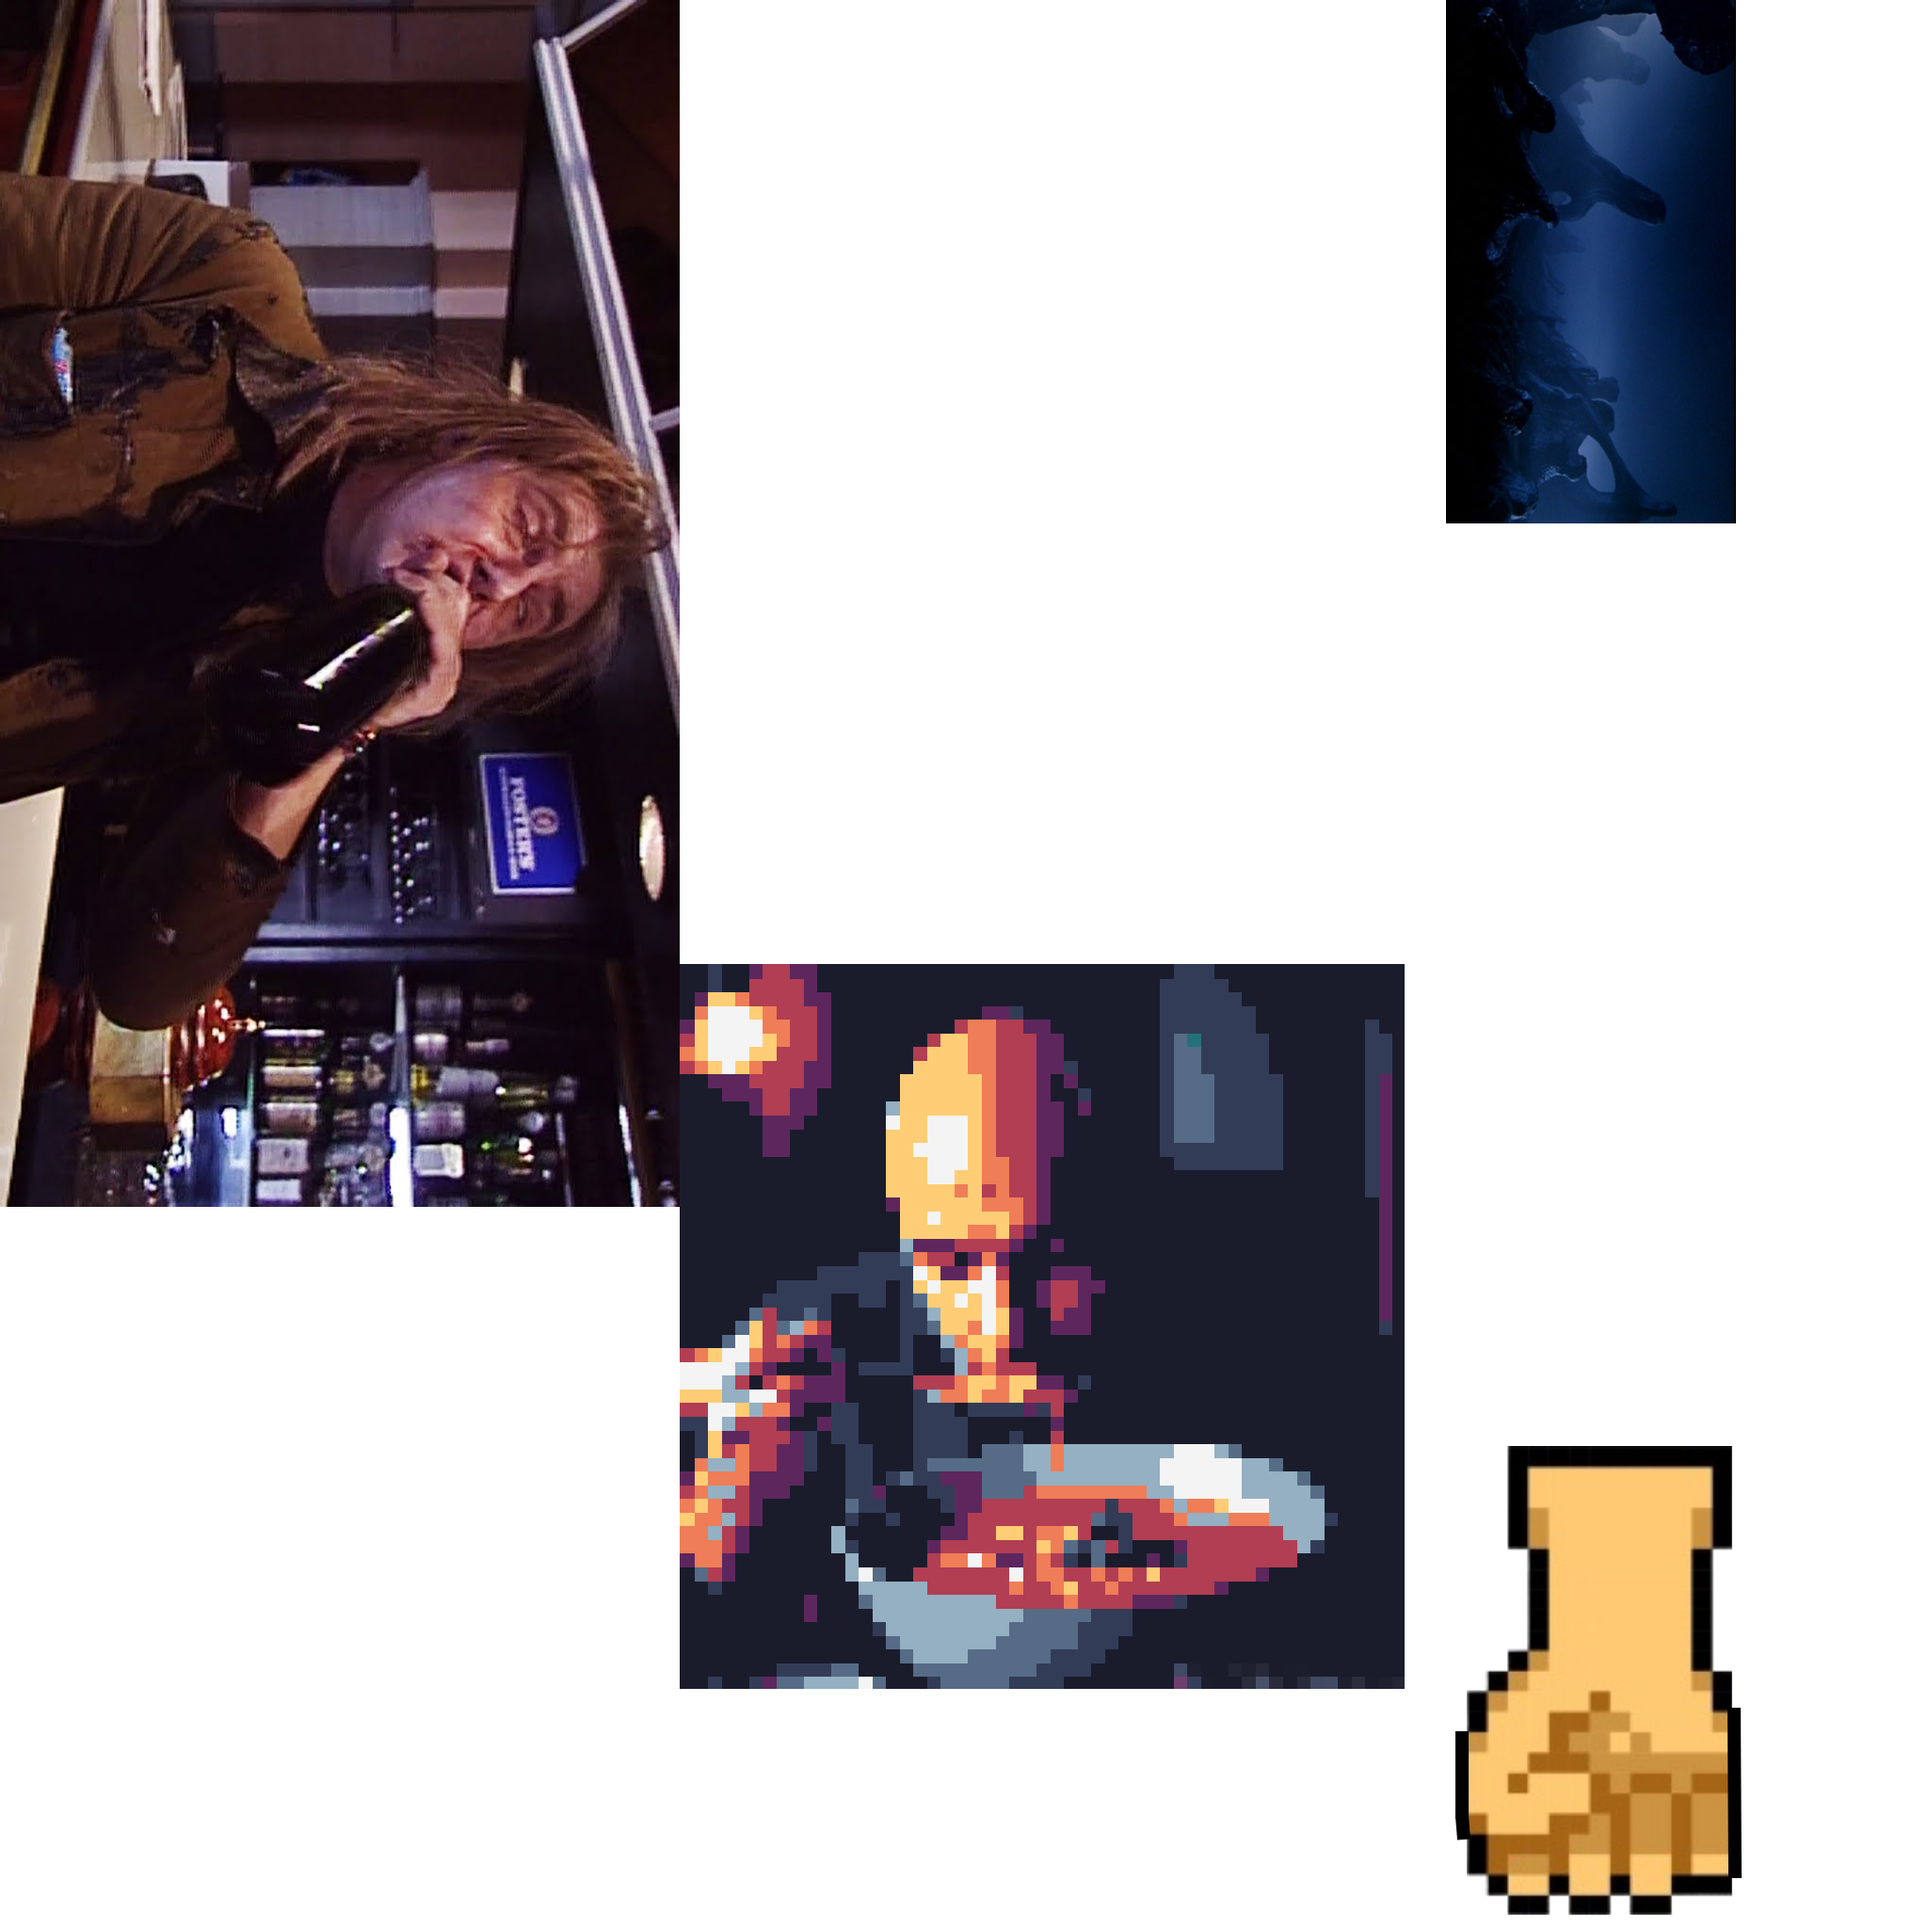
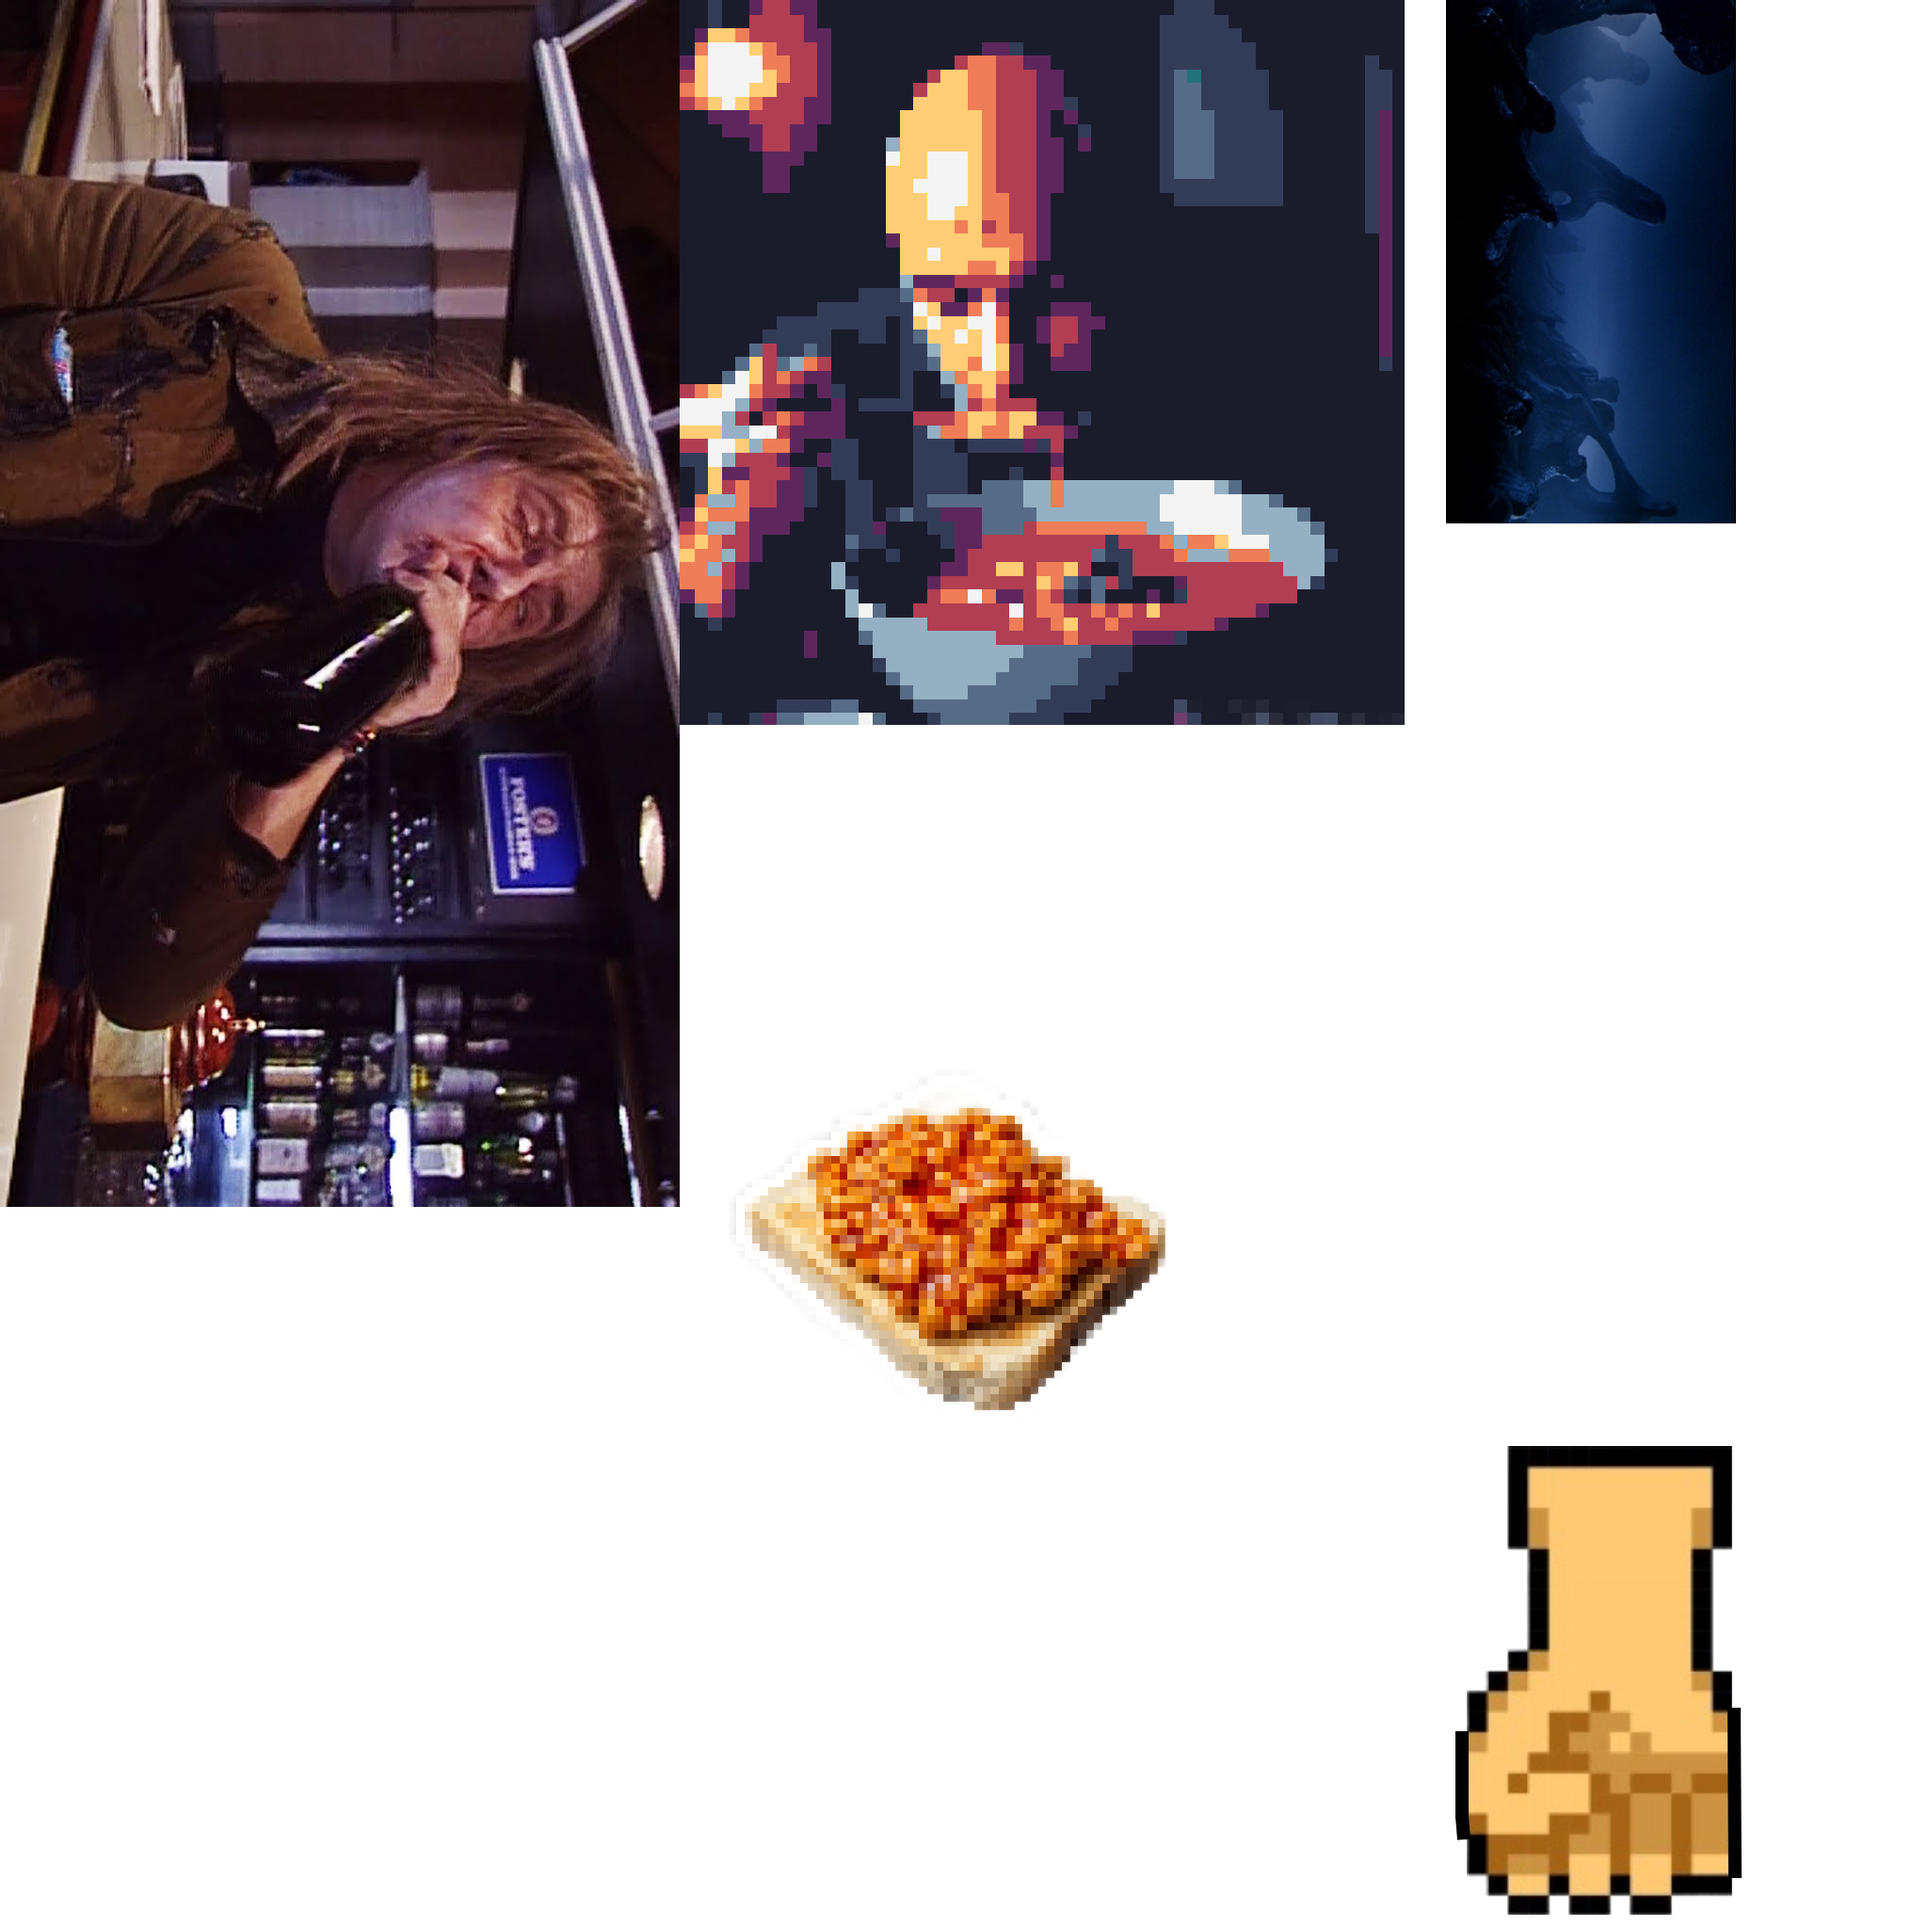
blblbllb beans

Changed region(s): [[0.3438, 0.5, 0.75, 0.875], [0.3438, 0.0, 0.75, 0.375]]

diff --git a/Blblblbl/scripts/c3runtime.js b/Blblblbl/scripts/c3runtime.js
@@ -3593,7 +3593,7 @@ this._gpuTimeStartFrame=this._gpuTimeEndFrame;this._gpuTimeEndFrame=0}_AddWebGPU
 resolve});return this._snapshotPromise}_MaybeTakeSnapshot(){if(!this._snapshotFormat)return;let canvas=this._canvas;const snapArea=this._snapshotArea;const x=C3.clamp(Math.floor(snapArea.getLeft()),0,canvas.width);const y=C3.clamp(Math.floor(snapArea.getTop()),0,canvas.height);let w=snapArea.width();if(w===0)w=canvas.width-x;else w=C3.clamp(Math.floor(w),0,canvas.width-x);let h=snapArea.height();if(h===0)h=canvas.height-y;else h=C3.clamp(Math.floor(h),0,canvas.height-y);if((x!==0||y!==0||w!==canvas.width||
 h!==canvas.height)&&(w>0&&h>0)){canvas=C3.CreateCanvas(w,h);const ctx=canvas.getContext("2d");ctx.drawImage(this._canvas,x,y,w,h,0,0,w,h)}C3.CanvasToBlob(canvas,this._snapshotFormat,this._snapshotQuality).then(blob=>{if(this._snapshotUrl)URL.revokeObjectURL(this._snapshotUrl);this._snapshotUrl=URL.createObjectURL(blob);this._snapshotPromise=null;this._snapshotResolve(this._snapshotUrl)});this._snapshotFormat="";this._snapshotQuality=1}GetCanvasSnapshotUrl(){return this._snapshotUrl}SetIsPastingToDrawingCanvas(p){if(p)this._isPastingToDrawingCanvas++;
 else this._isPastingToDrawingCanvas--}IsPastingToDrawingCanvas(){return this._isPastingToDrawingCanvas>0}InitLoadingScreen(loaderStyle){const renderer=this.GetRenderer();if(loaderStyle===2){this._percentText=C3.New(C3.Gfx.RendererText,this.GetRenderer());this._percentText.SetFontName("Arial");this._percentText.SetFontSize(16);this._percentText.SetHorizontalAlignment("center");this._percentText.SetVerticalAlignment("center");this._percentText.SetSize(PERCENTTEXT_WIDTH,PERCENTTEXT_HEIGHT)}else if(loaderStyle===
[3 lines of base64/hex data omitted]
 await C3.FetchBlob(url);const drawable=await this._runtime.RasterSvgImage(blob,2048,2048);return await this.GetRenderer().CreateStaticTextureAsync(drawable,{mipMapQuality:"high"})}async _LoadBitmapSplashImage(url){url=(new URL(url,this._runtime.GetRuntimeBaseURL())).toString();const blob=await C3.FetchBlob(url);return await this.GetRenderer().CreateStaticTextureAsync(blob,{mipMapQuality:"high"})}HideCordovaSplashScreen(){this._runtime.PostComponentMessageToDOM("runtime","hide-cordova-splash")}StartLoadingScreen(){this._loaderStartTime=
 Date.now();this._runtime.Dispatcher().addEventListener("loadingprogress",this._loadingprogress_handler);this._rafId=requestAnimationFrame(()=>this._DrawLoadingScreen());const loaderStyle=this._runtime.GetLoaderStyle();if(loaderStyle!==3)this.HideCordovaSplashScreen()}async EndLoadingScreen(){const renderer=this.GetRenderer();this._loadingProgress=1;const loaderStyle=this._runtime.GetLoaderStyle();if(loaderStyle===4)await this._splashDonePromise;this._splashDoneResolve=null;this._splashDonePromise=
@@ -4359,7 +4359,10 @@ self.C3_GetObjectRefTable = function () {
 		C3.Plugins.Sprite.Cnds.OnCollision,
 		C3.Plugins.System.Cnds.TriggerOnce,
 		C3.Plugins.System.Acts.AddVar,
-		C3.Plugins.Sprite.Acts.SetVisible
+		C3.Plugins.Sprite.Acts.SetVisible,
+		C3.Plugins.System.Acts.SetBoolVar,
+		C3.Plugins.Text.Acts.SetVisible,
+		C3.Plugins.System.Acts.SetTimescale
 	];
 };
 self.C3_JsPropNameTable = [
@@ -4396,6 +4399,7 @@ self.C3_JsPropNameTable = [
 	{Apple: 0},
 	{ahhhhImage: 0},
 	{blblblblImage: 0},
+	{GameOverText: 0},
 	{Phys: 0},
 	{Lost: 0},
 	{RunGame: 0},
@@ -4566,6 +4570,8 @@ self.C3_ExpressionFuncs = [
 			return () => f0(100, 1100);
 		},
 		() => 2000,
+		() => 0.001,
+		() => 0.006,
 		() => -1
 ];
 
